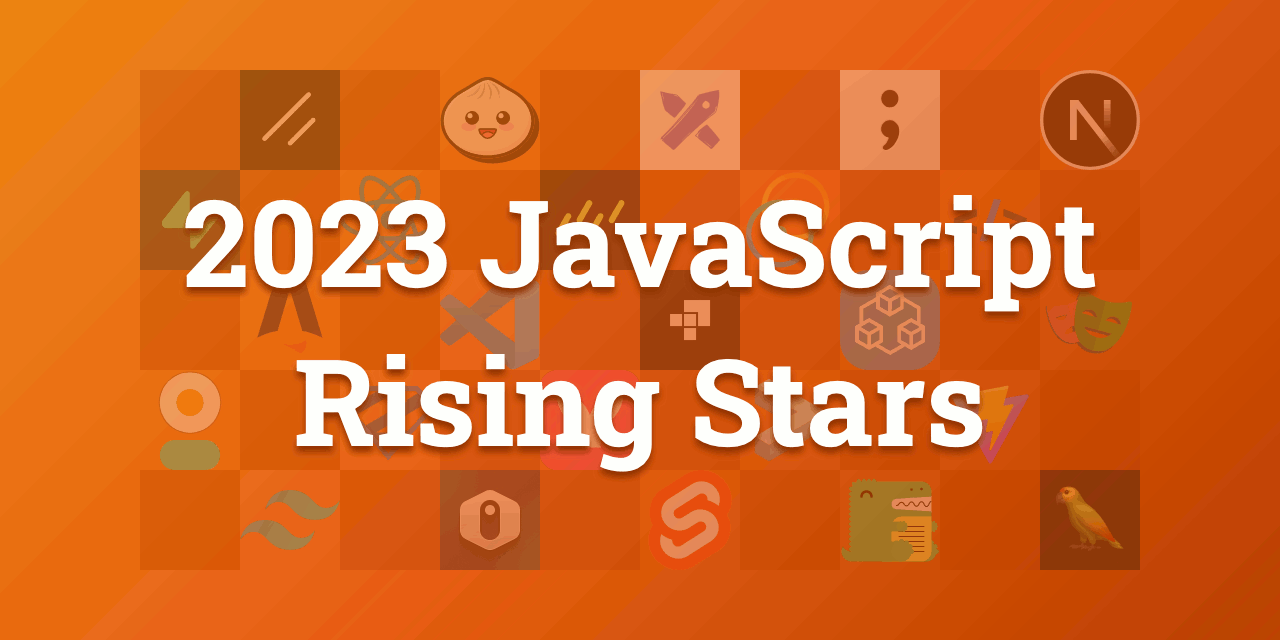
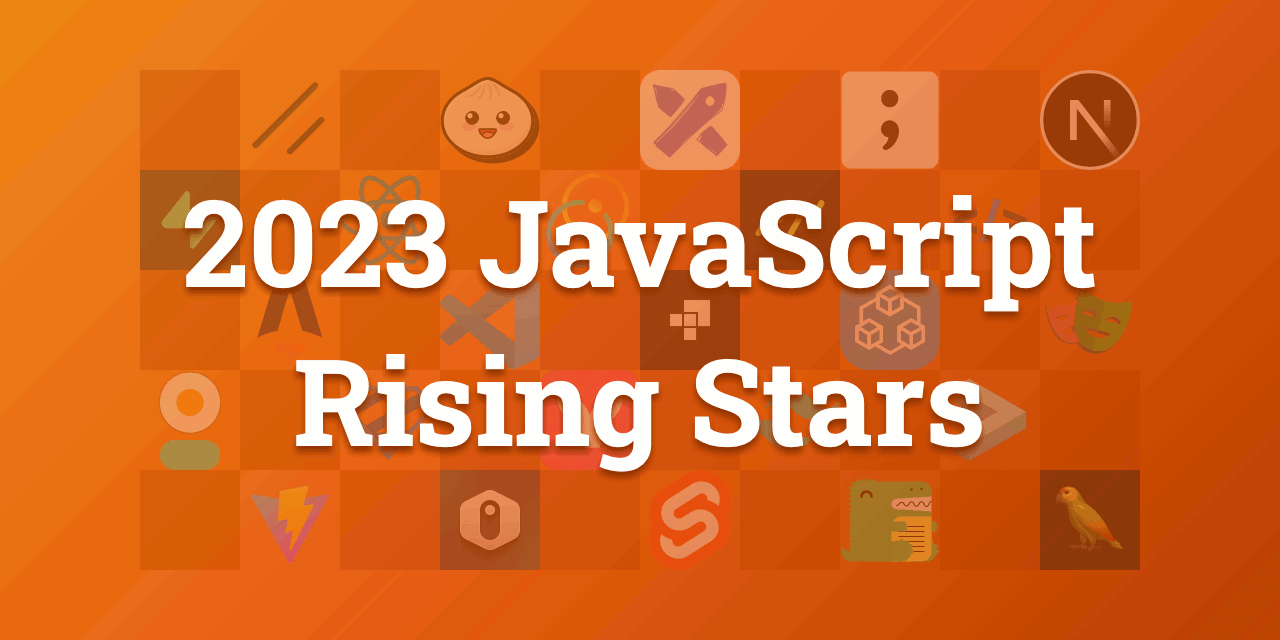
Rising Stars 2023 (#123)

diff --git a/src/pages/[year]/[language]/design.tsx b/src/pages/[year]/[language]/design.tsx
@@ -2,12 +2,16 @@ import { getPageProps, PageProps } from "page-helpers";
 import { SocialImage } from "components/graphics/social-image";
 import { BackgroundImage } from "components/graphics/background-image";
 
+const excludedProjects = ["draw-a-ui"];
+
 export default function DesignPage({
   year,
   language,
   projectsByTag,
 }: PageProps) {
-  const projects = projectsByTag["all"];
+  const projects = projectsByTag["all"].filter(
+    (project) => !excludedProjects.includes(project.slug)
+  );
   return (
     <div style={{ maxWidth: 1280, margin: "0 auto" }}>
       <h1>
@@ -16,7 +20,7 @@ export default function DesignPage({
       <h2>Social Image (1280x640)</h2>
       <SocialImage year={year} language={language} projects={projects} />
       <hr />
-      <h2>Background banner</h2>
+      <h2>Background banner (1200x300)</h2>
       <BackgroundImage projects={projects} />
     </div>
   );

diff --git a/src/components/graphics/project-avatar-grid.tsx b/src/components/graphics/project-avatar-grid.tsx
@@ -5,22 +5,7 @@ saved in `/public/img/:year/banner.png`
 import { ProjectAvatar } from "components/project-avatar";
 import styles from "./project-avatar-grid.module.css";
 
-const excluded = [
-  "axios",
-  "animatecss",
-  "react-boilerplate",
-  "airbnb-style-guide",
-  "front-end-checklist",
-  "freecodecamp",
-  "awesome",
-  "json-server",
-  "threejs",
-  "express",
-  "reveal",
-  "immutable",
-  "material-design-icons",
-  "30-seconds-of-code",
-];
+const excluded = [];
 
 type Props = {
   projects: RisingStars.Project[];

diff --git a/data/teamMembers.js b/data/teamMembers.js
@@ -3,7 +3,7 @@ import React from "react";
 export const authorWorks = {
   "Benjamin Blackwood": [2020],
   "Sacha Grief": [2016, 2017, 2018, 2019],
-  "Michael Rambeau": [2016, 2017, 2018, 2019, 2020, 2021, 2022],
+  "Michael Rambeau": [2016, 2017, 2018, 2019, 2020, 2021, 2022, 2023],
 };
 
 export const authors = {

diff --git a/i18n/md/collections/2023/en/categories/framework.md b/i18n/md/collections/2023/en/categories/framework.md
@@ -1,0 +1,41 @@
+---
+id: framework
+language: en
+---
+
+#### React
+
+In 2023, React maintains its position as a frontrunner in the JavaScript ecosystem, a trend persisting from 2021 and 2022, despite occasional criticism and controversies.
+
+Celebrating its 10th anniversary, React earned a documentary (watch it [here](https://www.youtube.com/watch?v=8pDqJVdNa44)); it says a lot about its popularity!
+
+However, React is not without its skeptics. Some view it as a relic of the past, a sentiment expertly explored in [this article](https://joshcollinsworth.com/blog/antiquated-react), which also delves into alternative solutions. On the flip side, proponents laud React for its remarkable adaptability and capacity for reinvention.
+
+One point of contention revolves around the absence of "signals", a reactivity handling mechanism employed by libraries such as {solid} or {preact}, while React enthusiasts appreciate the predictability offered by React's data flow.
+
+From [a tweet](https://twitter.com/devongovett/status/1629540226589663233) by Devon Govett, the creator of Parcel, about signals:
+
+> The simplicity of UI as a function of state is lost when updates flow unpredictably.
+
+To know more about signals, read [The Evolution of Signals](https://dev.to/this-is-learning/the-evolution-of-signals-in-javascript-8ob), a comprehensive exploration of one of the year's buzzwords.
+
+#### htmx
+
+At two {htmx} is a library that takes a different approach to provide interactivity to HTML page: rather than writing several lines of JavaScript code, developers enhance HTML with specific attributes to enable real-time interactivity and dynamic updates.
+
+It was lauded for its small file size and seamless integration with existing server-side frameworks, as it's part of the trend "send HTML over the wire": ask the server to send partial blocks of HTML instead of handling JSON in the client.
+
+In the same space of "tagging libraries", {alpinejs} is a popular solution (number 13 this year).
+
+#### Svelte
+
+At three, Svelte popularity keeps growing. It's often seen as a modern alternative to React.
+A big change is coming soon with Svelte 5, "the most anticipated release in the project's history", that introduces [runes](https://svelte.dev/blog/runes) to address some of the "pain points" when handling state reactivity. [This short video](https://www.youtube.com/watch?v=RVnxF3j3N8U) from Rich Harris does a great job of explaining the problems fixed by the runes.
+
+One of the stories of the year is related to Svelte and caused a lot debates (E.g. [Hacker News](https://news.ycombinator.com/item?id=35892250)): the Svelte team has chosen to use JavaScript with JSDoc annotations instead of TypeScript, to avoid the additional complexity and drawbacks associated with TypeScript, while still providing the benefits of type safety.
+
+#### Other frameworks updates
+
+- [Million v3](https://million.dev/blog/million-3) is a lightweight library that enables "React components to run at the speed of raw JavaScript."
+- [Angular 17](https://blog.angular.io/introducing-angular-v17-4d7033312e4b) introduced significant improvements in performance, refreshed documentation, and a new branding (including nice colors for the logo)
+- [Quik reached v1](https://www.builder.io/blog/qwik-v1) in April. The framework for building "resumable" apps that ship zero JS (initially) while delivering HTML that becomes instantly interactive.

diff --git a/i18n/md/collections/2023/en/categories/react.md b/i18n/md/collections/2023/en/categories/react.md
@@ -1,0 +1,22 @@
+---
+id: react
+language: en
+---
+
+In 2023, we saw React enter its third era with the advent of React Server Components.
+
+The React core team and Vercel collaborated to release the first stable implementation: [Next.js 13.4 App Router](https://nextjs.org/blog/next-13-4). Despite leading an exciting innovation and deploying consequent resources, Vercel received its fair share of criticism for its privileged relationship with the React core team and early access to experimental features. In early 2023, it was common to see new React features being documented first on the Next.js documentation. The community didn’t appreciate certain design decisions, such as the [extension of the `fetch()` API](https://nextjs.org/docs/app/api-reference/functions/fetch), on which they are [now backtracking](https://twitter.com/leeerob/status/1733154383410684148). It was also common to see complaints about the stability of the App Router, and the performance of its development server. Nevertheless, React Server Components early adopters reported many promising benefits, such as smaller bundle sizes and greatly simplified code.
+
+The React team [clarified its position and rollout strategy for its new experimental features](https://react.dev/blog/2023/05/03/react-canaries). It is fine for frameworks to adopt canary versions, whose breaking changes will be documented. They have also caught up with documentation, ending the year with a great [React Docs Update](https://github.com/reactwg/server-components/discussions/7), thoroughly documenting the newest APIs ([useFormState](https://react.dev/reference/react-dom/hooks/useFormState), [<form>](https://react.dev/reference/react-dom/components/form), [‘use server’](https://react.dev/reference/react/use-server) ...).
+
+We also saw the advent of [Server Actions](https://react.dev/reference/react-dom/components/form#handle-form-submission-with-a-server-action), a new React core feature first implemented as stable in [Next.js 14](https://nextjs.org/blog/next-14), enabling seamless RPC calls for form submissions and mutations. Similar to the philosophy of Remix, Server Actions are designed with [progressive enhancement in mind](https://react.dev/reference/react-dom/components/form#display-a-form-submission-error-without-javascript).
+
+In 2024, it will be exciting to see other frameworks adopt React Server Components, notably:
+
+- Remix added [React Server Components to its roadmap](https://twitter.com/ryanflorence/status/1729274387671760936)
+- Expo introducing server-side features and [unveiling its plan to support cross-platform Universal React Server Components](https://blog.expo.dev/expo-router-v3-beta-is-now-available-eab52baf1e3e)
+- Redwood is betting [All In on React Server Components](https://tom.preston-werner.com/2023/05/30/redwoods-next-epoch-all-in-on-rsc)
+- Waku is a new [minimal React framework supporting React Server Components](https://waku.gg/blog/introducing-waku)
+- Docusaurus plans to [render static React Server Components at build time](https://github.com/facebook/docusaurus/issues/9089)
+
+We are eagerly waiting for React 19, which should be [coming soon](https://twitter.com/acdlite/status/1719474730363662473).

diff --git a/i18n/md/collections/2023/en/categories/all.md b/i18n/md/collections/2023/en/categories/all.md
@@ -1,0 +1,42 @@
+---
+id: all
+language: en
+---
+
+#### Overall winner: shadcn/ui 🏆
+
+The hottest project of the year is shadcn/ui, a collection of UI components written in React, allowing customizable styling through TailwindCSS.
+
+Built on top of {radix}, a set of headless components providing primitives for concerns like accessibility and keyboard interactions, shadcn/ui distinguishes itself from other popular libraries (such as MUI, ChakraUI, React Spectrum) by not being a downloadable NPM package. Instead, you integrate the shadcn/ui components through a terminal command that installs the underlying dependencies and copies the component source code directly into your codebase for further modification.
+
+The project's success is closely tied to the widespread popularity of {tailwind-css} (number 20 overall), its compatibility with React Server Components, and the presence of excellent documentation.
+
+It seems all new shiny React projects have adopted shadcn/ui. It was even chosen by Kent C. Dodds for his cutting-edge [Epic Stack](https://www.epicweb.dev/epic-stack).
+
+Another example involving AI: from a user prompt describing the features and the look-and-feel of a piece of UI, the application [v0.dev](https://v0.dev) generates the JSX code made of shadcn/ui components. Mesmerizing!
+
+Last but not least, [Best of JS](https://bestofjs.org) uses them too, after the rewrite I did to transition from a SPA to a Next.js app.
+
+Its approach has already inspired other projects:
+
+- [shad-cn/svelte](https://shadcn-svelte.com/) is the port for Svelte framework.
+- [Draft UI](https://github.com/IHIutch/draft-ui) is built on top of [React Aria](https://react-spectrum.adobe.com/react-aria/) instead of Radix.
+
+For an in-depth analysis, refer to the article [The anatomy of shadcn/ui](https://manupa.dev/blog/anatomy-of-shadcn-ui).
+
+#### Number two: Bun
+
+Bun, the champion of 2022, keeps its tremendous momentum.
+
+Bun aims to be a fast, all-in-one toolkit for running, building, testing, and debugging JavaScript and TypeScript applications.
+
+The [version 1](https://bun.sh/blog/bun-v1.0) was officially released in September (check the peak in the graph!) and Bun claims to be "production-ready".
+
+The docs provide great recipes to help get started as fast as possible with Bun APIs and common tasks such as file manipulation and handling database interactions.
+
+A [strong statement](https://twitter.com/bunjavascript/status/1732945030007099510) was made at the end of the year:
+
+> We have one goal for 2024
+> Flip the default backend JavaScript runtime from Node.js to Bun
+
+The compatibility with most of the Node.js eco-system (including the support of good old CommonJS imports via `require`) and the support of the main full-stack frameworks (Next.js, Nuxt, Astro...) can make it possible!

diff --git a/i18n/md/collections/2023/en/categories/mobile.md b/i18n/md/collections/2023/en/categories/mobile.md
@@ -1,0 +1,14 @@
+---
+id: mobile
+language: en
+---
+
+In 2023, the mobile space made significant progress towards unifying the web and native development experiences. This is evident from the top projects Expo (#1), Tamagui (#3), and Nativewind (#6) which share the goal of maximizing code reuse and increasing accessibility for web developers.
+
+There's a clear trend toward better styling solutions in React Native with Tamagui (#3), Nativewind (#6), and React Native Paper (#7) leading the way. This mirrors the web community, where shadcn-ui ranked #1 in overall popularity. I doubt this movement will slow down in 2024.
+
+In 2022, the official recommendation from the React team shifted from boilerplate solutions like Create React App to framework-first solutions like Remix and Next.js. A year later, we can see a similar shift in the React Native ecosystem. Tools like Expo, Tamagui, and Ignite, which offer many framework-first attributes, have all trended upward in popularity. This shift indicates a move away from framework-less React Native towards more opinionated solutions by default, signaling the evolution of mobile development paradigms. I predict this trend will continue in 2024.
+
+React Native's dominance is evident with seven of the top ten projects based on this library. However, the presence of three webview-based projects in this list suggests a lingering interest in deploying websites directly to app stores as-is. Perhaps 2024 will be the year that we see these two approaches start to converge.
+
+Overall it was a fantastic year for mobile development. I predict 2024 will have continued interest in styling solutions for React Native, more rendering patterns for native (likely with React Server Components on native), better server integration to support AI-driven apps, and possibly some interesting visionOS projects.

diff --git a/i18n/md/collections/2023/en/categories/build.md b/i18n/md/collections/2023/en/categories/build.md
@@ -1,0 +1,21 @@
+---
+id: build
+language: en
+---
+
+{bun} is also a [bundler](https://bun.sh/docs/bundler) so we included it this year in the "Building Tools" category.
+
+At two {vite} is still the most popular versatile bundler, powering meta frameworks such as Astro, Nuxt, Remix, SolidStart, SvelteKit...
+
+The [version 5](https://vitejs.dev/blog/announcing-vite5) released in November, is built on top of {rollup} 4, bringing performance improvements.
+
+Evan You [announced](https://twitter.com/youyuxi/status/1709943106215530867) he was working on Rolldown a port of Rollup in Rust that will be integrated to Vite. So the future of Vite is bright!
+
+At three, the rise of {biome} is one of the stories of the year. It's related to the [fall of Rome](https://bytes.dev/archives/175), an ambitious project that aimed to unify the tooling (compiling, linting, formatting, bundling, testing). The company behind the project failed and the project was stopped this year.
+
+Fortunately the project was forked and re-born under the name of Biome.
+
+In November, Biome won the [Prettier Challenge](https://biomejs.dev/blog/biome-wins-prettier-challenge/): creating "a Rust-powered code formatter that could pass over 95% of Prettier’s tests". Prettier being such a standard, we can expect more adoption of Biome in 2024.
+
+Speaking of Rust, {oxc} and {rspack} are the new players in this space, coming from the ByteDance team.
+{rspack} provides compatibility with Webpack while delivering unmatched performance. For the first time since we run the Rising Stars, it's weird not to see Webpack in the rankings given the number of projects that use it!

diff --git a/i18n/md/collections/2023/en/categories/nodejs-framework.md b/i18n/md/collections/2023/en/categories/nodejs-framework.md
@@ -1,0 +1,18 @@
+---
+id: nodejs-framework
+language: en
+---
+
+This year too {nextjs} is the leading project in the backend/fullstack category.
+
+The [version 14](https://nextjs.org/blog/next-14) focuses on improving server actions and introduces a new Partial Preview rendering mode.
+
+With React Server Components, developers can build web applications with new paradigms that can simplify drastically the code: fetching data directly from a component that is made `async` and mutating data by binding forms to server actions.
+
+A lot has been said about [this presentation](https://www.youtube.com/watch?v=9CN9RCzznZc&t=0s) that showcases making an SQL request directly from a component, but people may have missed the point: React Server Components can behave like self-contained components that can be dropped any where in your application, without any tedious wiring, the video does a great job to help building the new mental model made possible by RSC, showing a mix of server and client components that work seamlessly.
+
+At two, {astro} keeps climbing the rankings. Besides the original concept (generate ultra fast static site that run without JavaScript and add interactivity with islands using the UI framework of your choice) it can be used to generate pages dynamically too.
+
+I was impressed by the simplicity the templating system of `.astro` files (very close to JSX) and by the great DX (the CLI is a beauty!).
+
+The [version 4](https://astro.build/blog/astro-4/) introduces a new toolbar for development, automatic i18n routing and a new View Transition API to improve the UX.

diff --git a/i18n/md/collections/2023/en/categories/vue.md b/i18n/md/collections/2023/en/categories/vue.md
@@ -1,0 +1,12 @@
+---
+id: vue
+language: en
+---
+
+With [Vue 2](https://blog.vuejs.org/posts/vue-2-eol) announced to sunset at the end of 2023, this year was deemed to be a turning point for Vue and its community with lots of us embarking on the journey to upgrade to version 3.
+
+In that regard, efforts were made to help with migrating, the ecosystem caught up and kept on developing itself: it showed great results! [Nuxt 3](https://nuxt.com/) now has more downloads than Nuxt 2. UI frameworks, like [Vuetify](https://vuetifyjs.com/en/) and [PrimeVue](https://primevue.org/), are readier than ever to help build large (and less large!) applications. Libraries such as [VueUse](https://vueuse.org/), [Pinia](https://pinia.vuejs.org/), or even [TresJS](https://tresjs.org/) kept on growing and enhancing themselves to better empower us all.
+
+Like in 2022, the Developer Experience was still was still a top priority. [Vue 3.3](https://blog.vuejs.org/posts/vue-3-3) brought in improved TypeScript support for `<script setup>`. Nuxt released 8 minor versions and unveiled [Nuxt DevTools](https://devtools.nuxt.com/), a creative and insightful UI to help us better understand our apps and develop them faster.
+
+Looking forward, and as Evan said, 2024 is set to be an exciting year for Vue. Vue 3.4 is right around the corner and [Vapor mode](https://github.com/vuejs/core-vapor), now open-sourced, is progressing well. All of it tuning the new year for more performance improvements and community innovation.

diff --git a/i18n/md/collections/2023/en/conclusion.md b/i18n/md/collections/2023/en/conclusion.md
@@ -1,0 +1,22 @@
+---
+id: conclusion
+language: en
+---
+
+Let's recap some of the stories and dramas of 2023:
+
+- Svelte code base ditching TypeScript files (while preserving type safety)
+- Controversies around React (either too old, too complicated, PHP-like...)
+- The fall of Rome and the rise of Biome
+- Angular rejuvenated
+- The release of Bun v1
+- Astro 4.0 released
+- Stylex open-sourced by Meta, at last!
+
+We saw the rise of AI tools that can generate UI from prompts and even images making people wonder if there will be frontend developers in a few years.
+
+As I pen down this summary for the eighth time, one can't help but wonder: Could an AI take over this task next year? 
+
+If you enjoyed this roundup, share your appreciation, and who knows, we might be back in a year for the 2024 Rising Stars!
+
+

diff --git a/i18n/md/collections/2023/en/guests/slorber.md b/i18n/md/collections/2023/en/guests/slorber.md
@@ -1,0 +1,10 @@
+---
+id: slorber
+language: en
+---
+
+### Guest Writer: [Sébastien Lorber](https://sebastienlorber.com)
+
+Sébastien is a React early adopter, working with Facebook Open-Source on {docusaurus}.
+
+He runs a weekly newsletter about React and React Native: [This Week in React](https://thisweekinreact.com)
